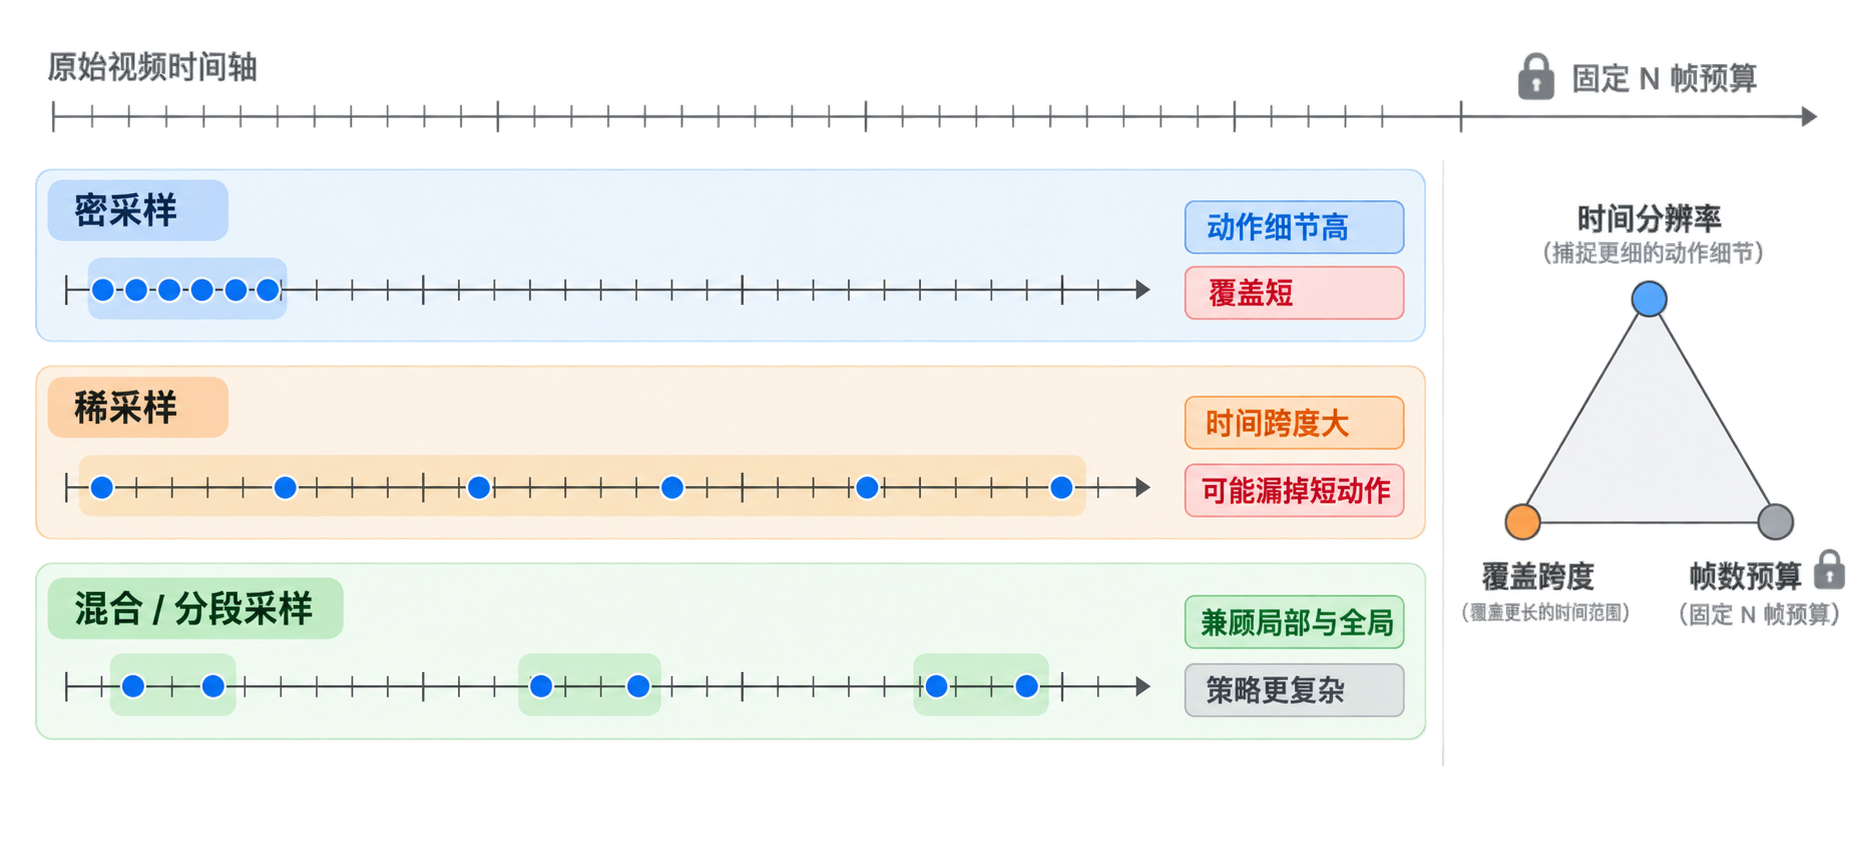
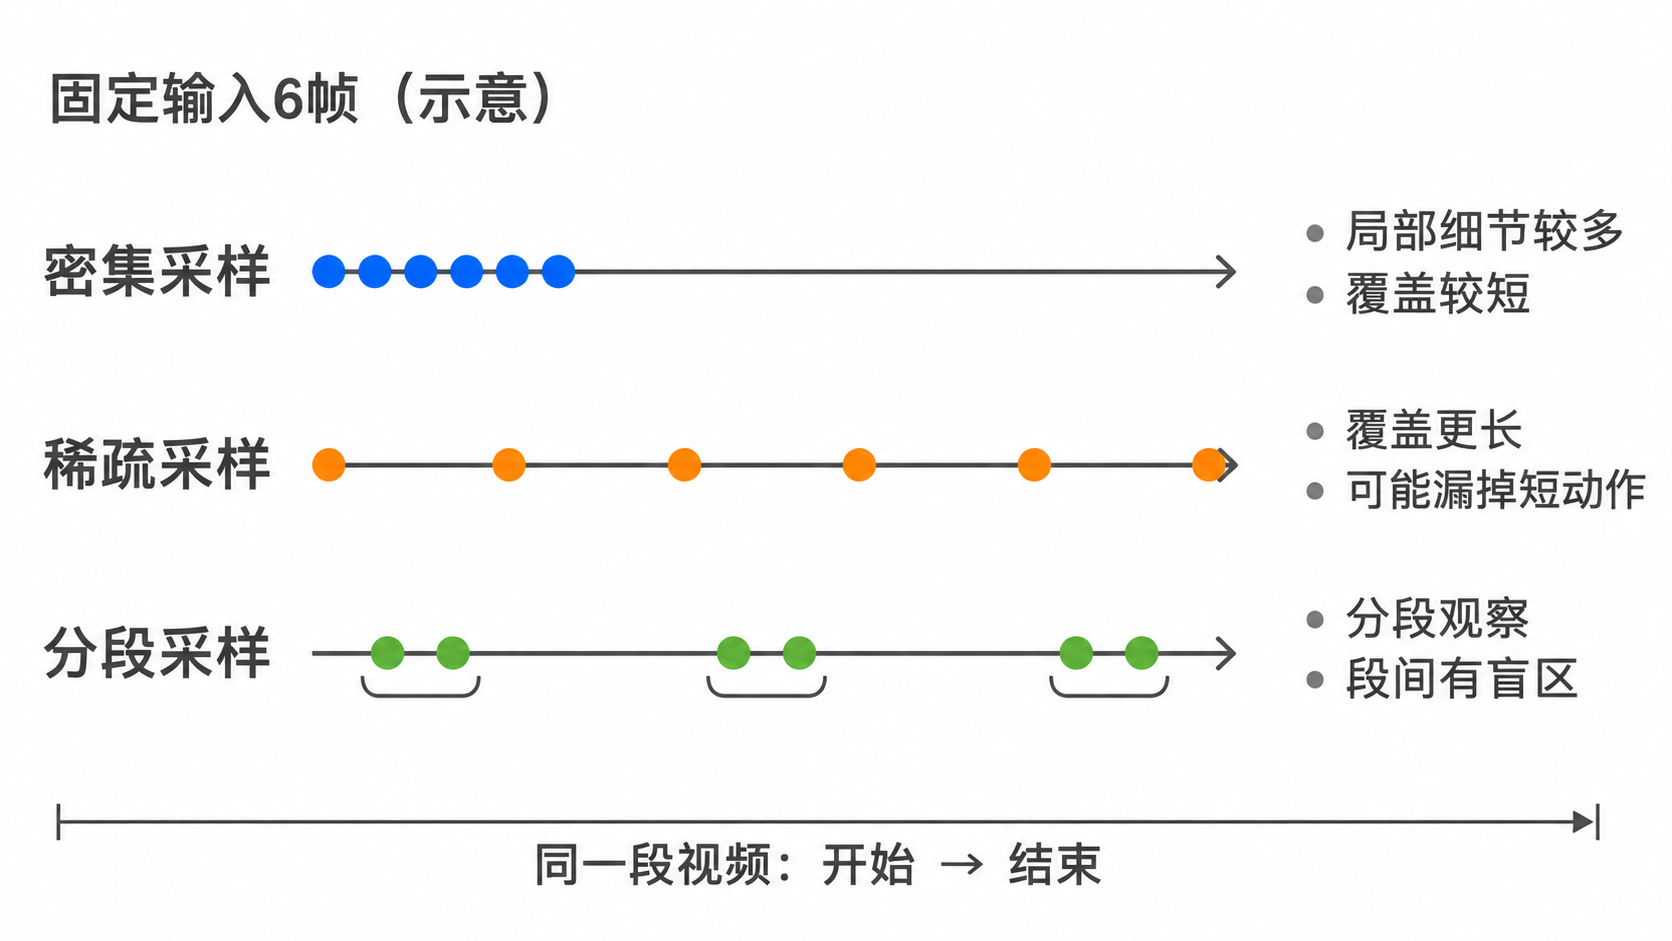
更新视频板块01章节配图

Changed region(s): [[0.0, 0.4303, 0.9952, 0.9527], [0.0, 0.1844, 0.9641, 0.3995], [0.0, 0.0615, 0.9952, 0.1537]]

diff --git a/AI视频基础（精华版）/01_AI视频基础概念.md b/AI视频基础（精华版）/01_AI视频基础概念.md
@@ -62,15 +62,15 @@
 
 视频相对图像新增了对**时间关系、动态状态和跨帧对应关系**的建模要求。在任务目标和单帧质量要求相近时，模型需要同时处理空间内容与时间关系，因此视频通常更难建模。
 
-<div align="center"><img src="./imgs/ch01/fig-01-01-video-vs-image.png" alt="视频不是多张独立图片，而是连续演化的状态" width="760" /></div>
+<div align="center"><img src="./imgs/ch01/fig-01-01-video-vs-image.png" alt="单帧内容与视频中的时间顺序、运动变化和跨帧保持" width="760" /></div>
 
-<p align="center">图1-1 视频不是多张独立图片，而是连续演化的状态</p>
+<p align="center">图1-1 单帧内容与视频中的时间顺序、运动变化和跨帧保持</p>
 
 **1、视频新增了哪些建模要求？**
 
 - **建模时间关系与状态变化。** 图像描述某个时刻的对象、属性和空间布局；视频还要描述动作按什么顺序发生、持续多久，以及对象的状态怎样变化。例如，“拿起杯子”和“放下杯子”可能包含相似的单帧画面，但帧序不同，表达的动作也不同。帧间时间间隔还会影响模型对运动快慢的判断。
 
-- **建立跨帧对应，维持对象与场景的连续性。** 模型需要判断不同帧中的对象是否为同一个，以及它的位置、外观和状态如何衔接。例如图1-1中的球被挡板遮挡后重新出现，模型需要利用前后信息，判断它是否仍为同一个球、运动轨迹能否接上。对象运动、相机移动、形变和遮挡都会增加建立对应关系的难度。
+- **建立跨帧对应，维持对象与场景的连续性。** 模型需要判断不同帧中的对象是否为同一个，以及它的位置、外观和状态如何衔接。例如，图1-1中的球被挡板遮挡后重新出现，模型需要利用前后信息，判断它是否仍为同一个球、运动轨迹能否接上。对象运动、相机移动、形变和遮挡都会增加建立对应关系的难度。
 
 **2、这些要求为什么让视频通常更难？**
 
@@ -86,7 +86,7 @@
 
 **难度评分：⭐⭐⭐ (3/5)  |  考察频率：⭐⭐⭐⭐⭐ (5/5)**
 
-这里的逐帧处理指各帧独立计算，时空建模则通过跨帧联系利用时间信息。核心区别是：**当前帧的特征或预测，是否能够利用其他帧的信息。**
+这里的逐帧处理指各帧独立计算，时空建模则通过跨帧联系利用时间信息。如图1-2所示，核心区别是：**当前帧的特征或预测，是否能够利用其他帧的信息。**
 
 <div align="center"><img src="./imgs/ch01/fig-01-03-framewise-vs-spatiotemporal.png" alt="逐帧共享参数与跨帧信息交互的差异" width="760" /></div>
 
@@ -121,11 +121,11 @@
 
 **难度评分：⭐⭐ (2/5)  |  考察频率：⭐⭐⭐⭐ (4/5)**
 
-将一批采样后的视频帧送入模型时，常用五维 Tensor 表示： $[B,T,C,H,W]$ 或 $[B,C,T,H,W]$。维度顺序需要符合接收它的模型或算子约定。
+将一批采样后的视频帧送入模型时，常用五维 Tensor 表示： $[B,T,C,H,W]$ 或 $[B,C,T,H,W]$。维度顺序需要符合接收它的模型或算子约定，图1-3展示了逐帧二维处理与三维时空处理中的数据组织方式。
 
-<div align="center"><img src="./imgs/ch01/fig-01-02-video-tensor-layout.png" alt="两种视频 Tensor 布局与时间模块的关系" width="760" /></div>
+<div align="center"><img src="./imgs/ch01/fig-01-02-video-tensor-layout.png" alt="视频张量的维度组织与二维、三维处理路径" width="760" /></div>
 
-<p align="center">图1-3 两种视频 Tensor 布局与时间模块的关系</p>
+<p align="center">图1-3 视频张量的维度组织与二维、三维处理路径</p>
 
 **1、视频 Tensor 如何组织？**
 
@@ -204,6 +204,12 @@ f_{sample}=\frac{1}{\Delta t_{sample}}=\frac{f_{src}}{s}
 
 这里计算的是**首末采样帧的时间戳跨度**。如果将这 16 帧逐帧播放，每帧显示 0.1 秒，播放时长则为 1.6 秒，两者采用的时长口径不同。
 
+图1-4用4帧的简化示例展示这一区别：首末时间戳之间只有3个采样间隔，而逐帧播放时4帧各占一个显示间隔。
+
+<div align="center"><img src="./imgs/ch01/fig-01-10-fps-sampling-timespan.png" alt="采样帧率、首末时间戳跨度与逐帧播放时长" width="760" /></div>
+
+<p align="center">图1-4 采样帧率、首末时间戳跨度与逐帧播放时长</p>
+
 **3、固定输入帧数时，采样密度有什么影响？**
 
 固定 $T$ 时，提高采样帧率会缩短时间覆盖范围，提供更密集的局部观测；降低采样帧率可以覆盖更长时间，但可能漏掉短时动作。此时输入帧数保持不变。如果保持覆盖时长不变，提高采样帧率则需要更多输入帧。
@@ -261,13 +267,13 @@ f_{sample}=\frac{1}{\Delta t_{sample}}=\frac{f_{src}}{s}
 
 固定输入 $T$ 帧时，需要在**时间覆盖范围与局部运动细节**之间取舍：将帧集中在短时间内，可以更密集地观察局部变化；将帧分散到较长时间内，可以覆盖更多事件阶段，但可能漏掉短时动作。
 
-<div align="center"><img src="./imgs/ch01/fig-01-04-temporal-sampling-tradeoff.png" alt="固定 N 帧预算下的密采样、稀采样与混合采样取舍" width="760" /></div>
+<div align="center"><img src="./imgs/ch01/fig-01-04-temporal-sampling-tradeoff.png" alt="固定输入6帧时，密集、稀疏与分段采样的取舍" width="760" /></div>
 
-<p align="center">图1-4 固定 N 帧预算下的密采样、稀采样与混合采样取舍</p>
+<p align="center">图1-5 固定输入6帧时，密集、稀疏与分段采样的取舍</p>
 
 **1、根据任务需要选择采样方式**
 
-如图1-4所示，密集采样将帧集中在较短时间窗内，稀疏采样将帧分散到较长时间范围，分段组合采样则在多个时间段内分别保留一组连续帧。根据任务需要，可以参考表1-3选择：
+如图1-5所示，密集采样将帧集中在较短时间窗内，稀疏采样将帧分散到较长时间范围，分段组合采样则在多个时间段内分别保留一组连续帧。根据任务需要，可以参考表1-3选择：
 
 <p align="center"><strong>表1-3 固定输入帧数下的视频采样策略选型</strong></p>
 
@@ -305,10 +311,6 @@ f_{sample}=\frac{1}{\Delta t_{sample}}=\frac{f_{src}}{s}
 
 > 视频生成、编辑与理解具有不同的输出目标和保持要求，也可以在同一流程中配合。本节介绍它们的任务边界、编辑中的时间约束，以及条件输入和视频理解的作用。
 
-<div align="center"><img src="./imgs/ch01/fig-01-05-video-task-coordinate.png" alt="生成、编辑与理解的输入输出边界及共享底层能力" width="760" /></div>
-
-<p align="center">图1-5 生成、编辑与理解的输入输出边界及共享底层能力</p>
-
 <h2 id="4.1.3.1_面试问题：视频生成、视频编辑和视频理解的任务边界是什么？">4.1.3.1 面试问题：视频生成、视频编辑和视频理解的任务边界是什么？</h2>
 
 **难度评分：⭐⭐⭐ (3/5)  |  考察频率：⭐⭐⭐⭐⭐ (5/5)**
@@ -320,6 +322,12 @@ f_{sample}=\frac{1}{\Delta t_{sample}}=\frac{f_{src}}{s}
 - **视频生成：根据条件合成视频内容。** 输入可以是文本、图像、音频或视频前缀等，输出是满足条件的视频。例如，根据“一位穿红衣的人在街上行走”生成一段视频，模型需要组织人物、场景和运动过程。
 - **视频编辑：修改已有视频，同时保持要求保留的内容。** 输入通常包括源视频和修改要求，输出是编辑后的视频。例如，把源视频中人物的红色外套改成蓝色，同时保持人物身份、原有动作和背景。编辑既要完成修改，也要控制非预期变化。
 - **视频理解：从视频中提取信息并进行判断。** 输入主要是视频，输出可以是动作类别、文字描述、事件时间区间或对象轨迹等。例如，判断人物正在做什么、沿什么路线移动，以及某个动作发生在哪段时间。
+
+图1-6以猫先生的视频为例，对比三类任务的输入、输出及内容保持要求。
+
+<div align="center"><img src="./imgs/ch01/fig-01-05-video-task-coordinate.png" alt="视频生成、编辑与理解的输入输出及内容保持要求" width="760" /></div>
+
+<p align="center">图1-6 视频生成、编辑与理解的输入输出及内容保持要求</p>
 
 **2、容易混淆的任务怎样区分？**
 
@@ -441,10 +449,6 @@ f_{sample}=\frac{1}{\Delta t_{sample}}=\frac{f_{src}}{s}
 
 > 本节先区分空间内容、时间关系与运动变化，再回答一个容易混淆的问题：视频播放连续，并不代表运动方向、幅度和动作阶段正确。*运动表征见[4.1.5](#4.1.5_运动表征基础：光流、帧差、轨迹与隐式建模)；时序一致性、长程依赖及漂移、闪烁等问题见[4.1.6](#4.1.6_时序建模基础：一致性、长程依赖、漂移与闪烁)。*
 
-<div align="center"><img src="./imgs/ch01/fig-01-06-spatial-temporal-motion.png" alt="Spatial、Temporal 与 Motion 的观察对象及连续不等于运动正确" width="760" /></div>
-
-<p align="center">图1-6 Spatial、Temporal 与 Motion 的观察对象及“连续不等于运动正确”</p>
-
 <h2 id="4.1.4.1_面试问题：Spatial、Temporal-与-Motion-分别是什么？三者有什么关系？">4.1.4.1 面试问题：Spatial、Temporal 与 Motion 分别是什么？三者有什么关系？</h2>
 
 **难度评分：⭐⭐ (2/5)  |  考察频率：⭐⭐⭐⭐⭐ (5/5)**
@@ -454,6 +458,12 @@ f_{sample}=\frac{1}{\Delta t_{sample}}=\frac{f_{src}}{s}
 **Temporal（时间）：不同时间的内容怎样联系。** 包括帧与事件的先后顺序、持续时间、对象状态的延续，以及前后事件之间的依赖。
 
 **Motion（运动）：对象或相机怎样运动。** 包括对象位移、旋转、姿态变化、形变，以及相机移动带来的视角变化。
+
+图1-7用同一小球的连续画面说明这三类信息，并对照展示“画面稳定但未完成指定动作”的情况。
+
+<div align="center"><img src="./imgs/ch01/fig-01-06-spatial-temporal-motion.png" alt="空间、时间与运动信息，以及稳定但动作缺失的反例" width="760" /></div>
+
+<p align="center">图1-7 空间、时间与运动信息，以及稳定但动作缺失的反例</p>
 
 以“一个人拿起杯子后喝水”为例：人物和杯子的外观与位置属于空间信息；先拿杯子、后喝水及各阶段的持续时间属于时间关系；手臂抬起、杯子移动和倾斜则属于运动信息。要判断杯子是被拿起还是被放下，需要结合前后帧的位置、姿态和时间顺序，因此运动判断同时依赖空间与时间信息。
 
@@ -549,11 +559,11 @@ f_{sample}=\frac{1}{\Delta t_{sample}}=\frac{f_{src}}{s}
 
 </div>
 
-<div align="center"><img src="./imgs/ch01/fig-01-07-motion-representation-choice.png" alt="帧差、光流与轨迹的输出形式、时间范围和工程选择" width="760" /></div>
+如图1-8所示，在固定相机、背景静止且无遮挡的示例中，球从左向右移动：帧差显示前后位置的变化区域；光流表示球所在区域的帧间位移；轨迹记录同一对象或特征点在多帧中的位置。
 
-<p align="center">图1-7 帧差、光流与轨迹的输出形式、时间范围和工程选择</p>
+<div align="center"><img src="./imgs/ch01/fig-01-07-motion-representation-choice.png" alt="帧差、光流与轨迹对同一运动过程的不同表示" width="760" /></div>
 
-例如，球从左向右移动：帧差可以显示哪些位置发生了变化；光流可以估计球表面可对应区域的位移；轨迹则记录球或其特征点在多帧中经过的位置。
+<p align="center">图1-8 帧差、光流与轨迹对同一运动过程的不同表示</p>
 
 **2、工程上如何选择？**
 
@@ -606,10 +616,6 @@ f_{sample}=\frac{1}{\Delta t_{sample}}=\frac{f_{src}}{s}
 <h1 id="4.1.6_时序建模基础：一致性、长程依赖、漂移与闪烁">4.1.6 时序建模基础：一致性、长程依赖、漂移与闪烁</h1>
 
 > 时序一致性描述内容能否在时间上合理延续，长程依赖涉及相隔较远的信息联系。漂移和闪烁则是两类可观察的异常：前者表现为内容逐渐偏离参考要求，后者表现为明暗、颜色或纹理等快速波动。
-
-<div align="center"><img src="./imgs/ch01/fig-01-08-temporal-consistency.png" alt="时序一致性、长程依赖与漂移、闪烁的层级关系" width="760" /></div>
-
-<p align="center">图1-8 时序一致性、长程依赖与漂移、闪烁的层级关系</p>
 
 <h2 id="4.1.6.1_面试问题：什么是视频中的时序一致性？">4.1.6.1 面试问题：什么是视频中的时序一致性？</h2>
 
@@ -718,6 +724,12 @@ f_{sample}=\frac{1}{\Delta t_{sample}}=\frac{f_{src}}{s}
 
 因此，人物面部细节逐渐改变，同时肤色反复波动时，可能同时存在身份漂移和局部闪烁。
 
+图1-9固定角色姿态与光照，仅用外套明暗的变化示意两种异常：上排逐渐偏离参考，下排快速反复波动。
+
+<div align="center"><img src="./imgs/ch01/fig-01-08-temporal-consistency.png" alt="固定姿态与光照下，外观漂移与闪烁的示意对照" width="760" /></div>
+
+<p align="center">图1-9 固定姿态与光照下，外观漂移与闪烁的示意对照</p>
+
 **3、如何定位闪烁来源？**
 
 **（1）先排除输入中已有的问题。** 对使用源视频或参考视频的任务，先检查输入是否已存在曝光波动、压缩失真或其他闪烁，避免把已有问题全部归因于生成或编辑模型。
@@ -774,13 +786,15 @@ f_{sample}=\frac{1}{\Delta t_{sample}}=\frac{f_{src}}{s}
 
 三者分别关注空间结构、运动交互，以及事件之间的因果关系。它们相互关联，但不是同一要求；画面真实、运动平滑，也不代表三者都正确。
 
-<div align="center"><img src="./imgs/ch01/fig-01-09-world-consistency.png" alt="同一初始场景下的几何、物理与因果约束及典型失败" width="760" /></div>
-
-<p align="center">图1-9 同一初始场景下的几何、物理与因果约束及典型失败</p>
-
 - **几何一致性：空间结构与视角变化是否协调。** 对象的形状、比例、深度和遮挡关系，应与视角变化相符。例如，相机绕杯子移动时，可见轮廓可以变化，但杯子的结构不应无故改变。
 - **物理合理性：运动与交互是否符合场景规律。** 关注碰撞、接触、支撑和材质响应。例如，在普通现实场景中，杯子应受到桌面支撑，不能无故穿过桌面；液体流动也应与容器姿态和重力作用协调。动画或超现实内容则按其设定判断。
 - **事件因果关系：结果是否由对应条件触发，并与前后状态衔接。** 例如，任务要求展示“球撞倒杯子”的完整过程，应先有有效碰撞，再发生倾倒。只有最后一个倒下的杯子，不能说明指定事件已经正确发生。
+
+图1-10以“球撞倒杯子”的任务为例展示典型异常，其中用杯壁剖面说明实体穿透，以区别于普通遮挡。
+
+<div align="center"><img src="./imgs/ch01/fig-01-09-world-consistency.png" alt="几何、物理与事件因果关系的典型异常" width="760" /></div>
+
+<p align="center">图1-10 几何、物理与事件因果关系的典型异常</p>
 
 同一种错误可能违反多项要求。例如，球没有接触杯子，杯子却倒下，既可能不符合物理交互，也没有呈现任务要求的因果过程。判断仍需结合可见信息与任务设定；原因可能发生在画外或被剪辑省略，不能仅凭没有拍到原因就判错。
 
@@ -819,6 +833,6 @@ f_{sample}=\frac{1}{\Delta t_{sample}}=\frac{f_{src}}{s}
 
 <div align="center">
 
-*Last Updated: 2026-11-13*
+*Last Updated: 2026-11-21*
 
 </div>
